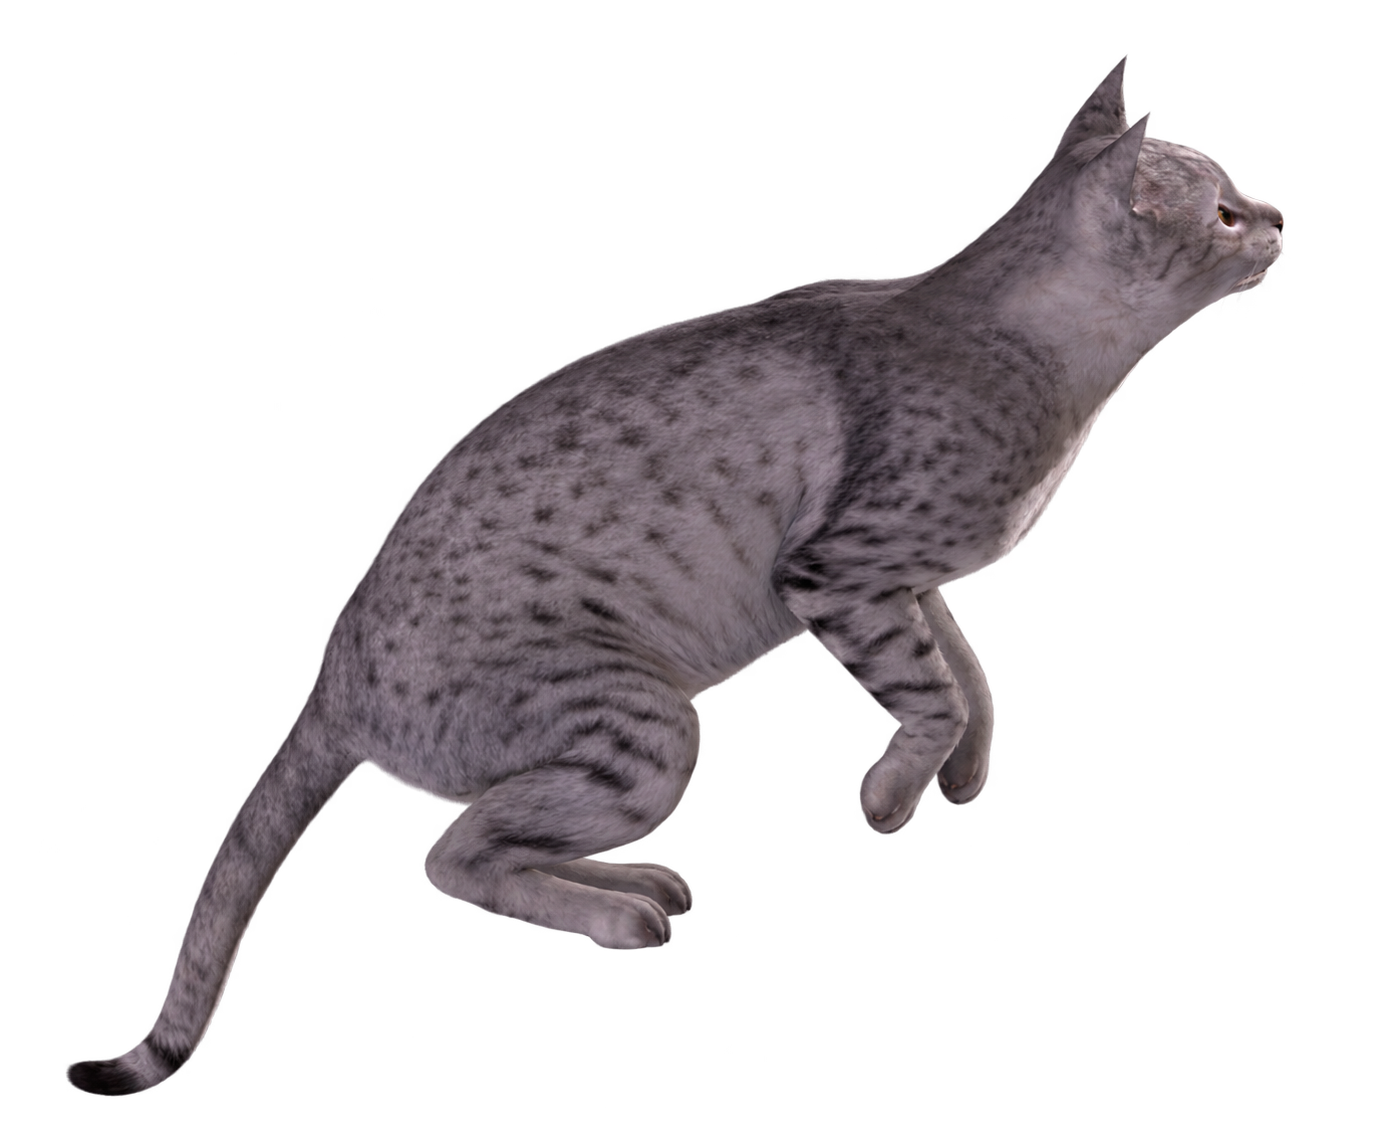
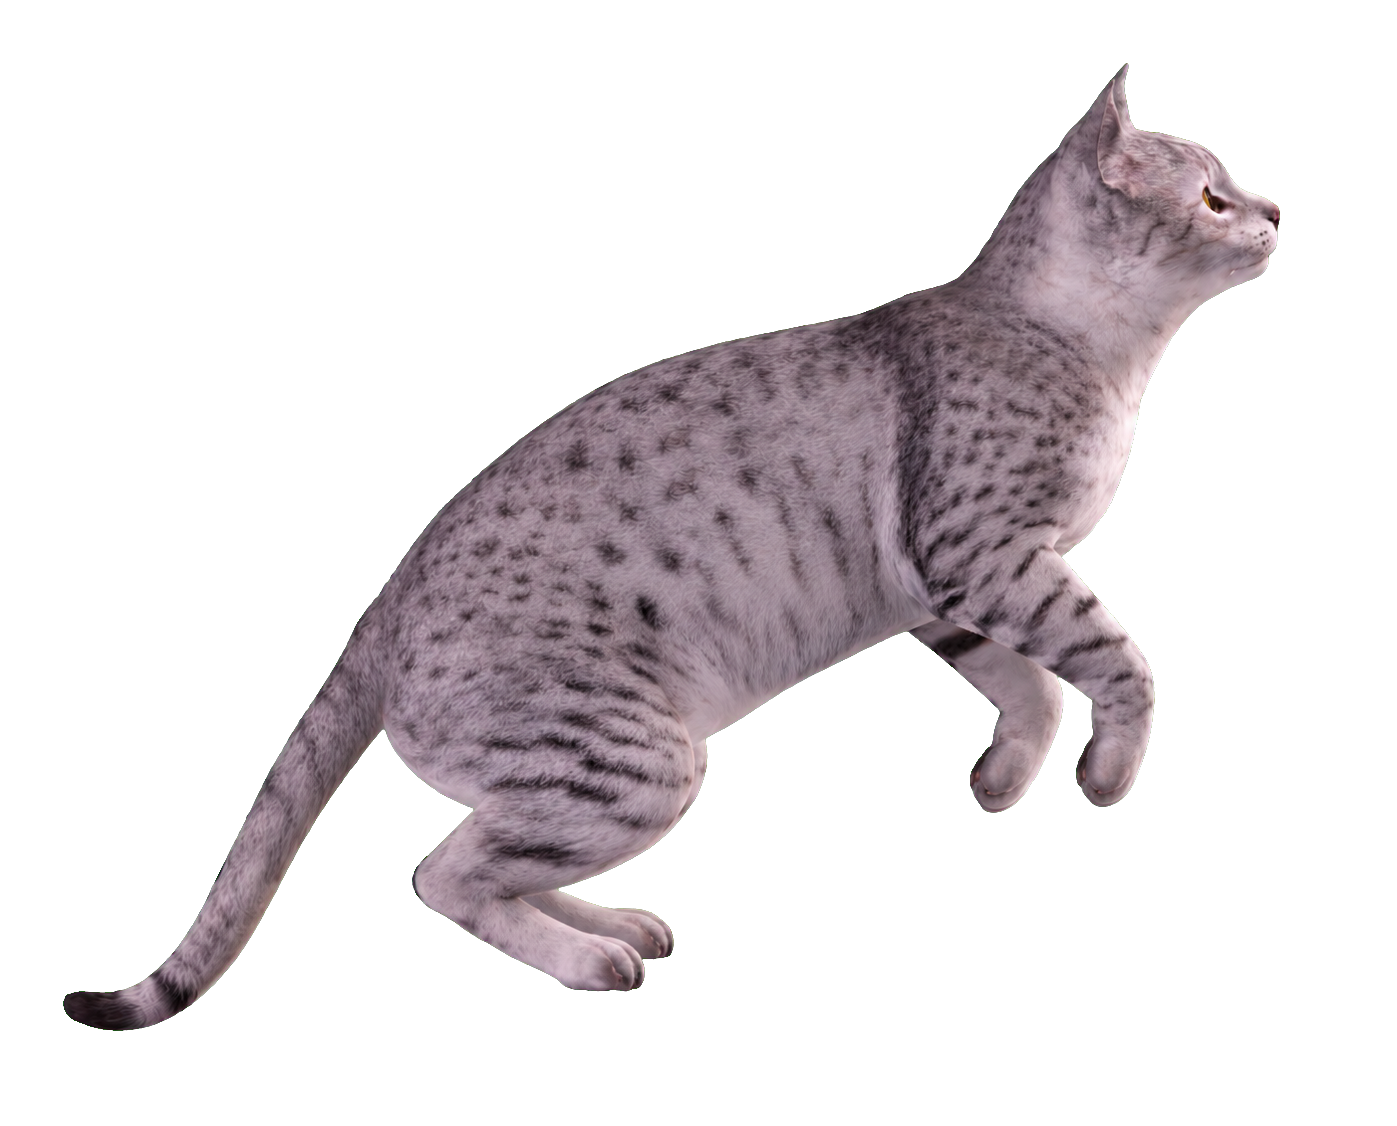
Add crouch animation assets for Mitzi and update animation controller
- Introduced new crouch animation assets (mitzi_crouch.anim, mitzi_crouch.png) along with their metadata files to enhance character animations.
- Updated the animation controller to include the new crouch state, ensuring smooth transitions between different actions.
- Modified the MitziPoseAnimationBuilder to support the new crouch animation, improving asset management and animation workflow.

Changed region(s): [[0.0308, 0.0622, 0.9234, 0.9947]]

diff --git a/Assets/_Game/Scripts/Core/RuntimeBootstrap.cs b/Assets/_Game/Scripts/Core/RuntimeBootstrap.cs
@@ -276,15 +276,26 @@ namespace PawPath.Core
             selected.gameObject.SetActive(false);
             var play = Button(content, "PlayButton", "Oyna", new Vector2(1f, 1f), new Vector2(-120f, -55f), new Color(0.93f, 0.72f, 0.76f));
             var shop = Button(content, "ShopButton", GameText.Shop, new Vector2(1f, 1f), new Vector2(-330f, -55f), new Color(0.78f, 0.84f, 0.72f));
-            StyleCompactTopButton(play, new Vector2(-92f, -42f));
-            StyleCompactTopButton(shop, new Vector2(-282f, -42f));
+            StyleCompactTopButton(play, new Vector2(-180f, -62f));
+            StyleCompactTopButton(shop, new Vector2(-540f, -62f));
             var editHome = Button(content, "EditHomeButton", "✎", new Vector2(1f, 1f),
-                new Vector2(-405f, -42f), new Color(0.78f, 0.72f, 0.64f));
+                new Vector2(-785f, -62f), new Color(0.78f, 0.72f, 0.64f));
             var flipFurniture = Button(content, "FlipFurnitureButton", "↔", new Vector2(1f, 1f),
-                new Vector2(-405f, -105f), new Color(0.78f, 0.72f, 0.64f));
-            StyleWarmGameButton(editHome, new Vector2(64f, 52f), 27);
-            StyleWarmGameButton(flipFurniture, new Vector2(64f, 52f), 26);
+                new Vector2(-785f, -178f), new Color(0.78f, 0.72f, 0.64f));
+            StyleWarmGameButton(editHome, new Vector2(128f, 104f), 42);
+            StyleWarmGameButton(flipFurniture, new Vector2(128f, 104f), 40);
             flipFurniture.gameObject.SetActive(false);
+            var quitGame = Button(content, "QuitGameButton", "Oyundan Çık", new Vector2(1f, 1f),
+                new Vector2(-960f, -62f), new Color(0.66f, 0.48f, 0.40f));
+            StyleWarmGameButton(quitGame, new Vector2(200f, 104f), 25);
+            quitGame.onClick.AddListener(() =>
+            {
+#if UNITY_EDITOR
+                UnityEditor.EditorApplication.isPlaying = false;
+#else
+                Application.Quit();
+#endif
+            });
 
             var musicMute = Button(content, "MusicMuteButton", "♫", new Vector2(0f, 1f),
                 new Vector2(52f, -44f), new Color(0.68f, 0.57f, 0.44f, 0.94f));
@@ -319,8 +330,8 @@ namespace PawPath.Core
             Stretch(modeMenu.GetComponent<RectTransform>());
             var drawingPlay = Button(modeMenu.transform, "DrawingPlayButton", "Çizerek Oyna", new Vector2(1f, 1f), new Vector2(-150f, -125f), new Color(0.93f, 0.72f, 0.76f));
             var directPlay = Button(modeMenu.transform, "DirectPlayButton", "Tuşlarla Oyna", new Vector2(1f, 1f), new Vector2(-150f, -195f), new Color(0.72f, 0.82f, 0.94f));
-            StyleCompactMenuButton(drawingPlay, new Vector2(-132f, -105f));
-            StyleCompactMenuButton(directPlay, new Vector2(-132f, -165f));
+            StyleCompactTopButton(drawingPlay, new Vector2(-180f, -180f));
+            StyleCompactTopButton(directPlay, new Vector2(-180f, -305f));
             modeMenu.SetActive(false);
 
             var themeSelectorObject = BuildThemeSelector(content);
@@ -381,7 +392,7 @@ namespace PawPath.Core
             resetProgress.gameObject.SetActive(Debug.isDebugBuild || Application.isEditor);
             var restart = Button(content, "RestartButton", "Yeniden", new Vector2(1f, 1f), new Vector2(-125f, -55f), new Color(0.93f, 0.72f, 0.76f));
             restart.GetComponent<RectTransform>().sizeDelta = new Vector2(190f, 58f);
-            var home = Button(content, "LevelHomeButton", "Eve Dön", new Vector2(0f, 1f), new Vector2(125f, -55f), new Color(0.78f, 0.84f, 0.72f));
+            var home = Button(content, "LevelHomeButton", "Eve Dön", new Vector2(0f, 1f), new Vector2(125f, -125f), new Color(0.78f, 0.84f, 0.72f));
             home.GetComponent<RectTransform>().sizeDelta = new Vector2(190f, 58f);
             StyleWarmGameButton(restart, new Vector2(190f, 58f), 20);
             StyleWarmGameButton(home, new Vector2(190f, 58f), 20);
@@ -407,9 +418,9 @@ namespace PawPath.Core
             var street = Button(panel.transform, "StreetTheme", "Sokak", new Vector2(1f, 1f), new Vector2(-150f, -125f), new Color(0.83f, 0.68f, 0.52f));
             var forest = Button(panel.transform, "ForestTheme", "Orman", new Vector2(1f, 1f), new Vector2(-150f, -195f), new Color(0.52f, 0.70f, 0.55f));
             var city = Button(panel.transform, "CityTheme", "Cadde", new Vector2(1f, 1f), new Vector2(-150f, -255f), new Color(0.62f, 0.58f, 0.54f));
-            StyleCompactMenuButton(street, new Vector2(-132f, -105f));
-            StyleCompactMenuButton(forest, new Vector2(-132f, -165f));
-            StyleCompactMenuButton(city, new Vector2(-132f, -225f));
+            StyleCompactMenuButton(street, new Vector2(-280f, -160f));
+            StyleCompactMenuButton(forest, new Vector2(-280f, -285f));
+            StyleCompactMenuButton(city, new Vector2(-280f, -410f));
             panel.AddComponent<ThemeSelectionUI>().Bind(street, forest, city);
             return panel;
         }
@@ -419,10 +430,10 @@ namespace PawPath.Core
             var controls = new GameObject("MobileControls", typeof(RectTransform));
             controls.transform.SetParent(parent, false);
             Stretch(controls.GetComponent<RectTransform>());
-            AddControlButton(controls.transform, "Left", "◀", new Vector2(0f, 0f), new Vector2(100f, 105f), MobileAction.Left);
-            AddControlButton(controls.transform, "Right", "▶", new Vector2(0f, 0f), new Vector2(245f, 105f), MobileAction.Right);
-            AddControlButton(controls.transform, "Jump", "ZIPLA", new Vector2(1f, 0f), new Vector2(-250f, 105f), MobileAction.Jump);
-            AddControlButton(controls.transform, "Crouch", "EĞİL", new Vector2(1f, 0f), new Vector2(-105f, 105f), MobileAction.Crouch);
+            AddControlButton(controls.transform, "Left", "◀", new Vector2(0f, 0f), new Vector2(125f, 120f), MobileAction.Left);
+            AddControlButton(controls.transform, "Right", "▶", new Vector2(0f, 0f), new Vector2(375f, 120f), MobileAction.Right);
+            AddControlButton(controls.transform, "Jump", "ZIPLA", new Vector2(1f, 0f), new Vector2(-375f, 120f), MobileAction.Jump);
+            AddControlButton(controls.transform, "Crouch", "EĞİL", new Vector2(1f, 0f), new Vector2(-125f, 120f), MobileAction.Crouch);
             return controls;
         }
 
@@ -430,13 +441,13 @@ namespace PawPath.Core
             Vector2 position, MobileAction action)
         {
             var button = Button(parent, name, label, anchor, position, new Color(0.18f, 0.20f, 0.25f, 0.82f));
-            button.GetComponent<RectTransform>().sizeDelta = new Vector2(125f, 92f);
-            StyleWarmGameButton(button, new Vector2(125f, 92f), 22);
+            button.GetComponent<RectTransform>().sizeDelta = new Vector2(200f, 140f);
+            StyleWarmGameButton(button, new Vector2(200f, 140f), 30);
             button.gameObject.AddComponent<MobileControlButton>().Configure(action);
             var text = button.GetComponentInChildren<Text>();
             if (text != null)
             {
-                text.fontSize = 22;
+                text.fontSize = 30;
                 text.color = Color.white;
             }
         }
@@ -447,11 +458,11 @@ namespace PawPath.Core
             panel.AddComponent<CanvasGroup>();
             var content = SafeContent(panel.transform);
 
-            var feed = Button(content, "FeedButton", $"Mama +{needs.foodPoints}", new Vector2(0.16f, 0f), new Vector2(0f, 205f), new Color(0.88f, 0.72f, 0.55f));
-            var water = Button(content, "WaterButton", $"Su +{needs.waterPoints}", new Vector2(0.16f, 0f), new Vector2(0f, 130f), new Color(0.62f, 0.80f, 0.91f));
-            var sleep = Button(content, "SleepButton", $"Uyu +{needs.sleepPoints}", new Vector2(0.16f, 0f), new Vector2(0f, 55f), new Color(0.75f, 0.69f, 0.86f));
+            var feed = Button(content, "FeedButton", $"Mama +{needs.foodPoints}", new Vector2(0.16f, 0f), new Vector2(0f, 275f), new Color(0.88f, 0.72f, 0.55f));
+            var water = Button(content, "WaterButton", $"Su +{needs.waterPoints}", new Vector2(0.16f, 0f), new Vector2(0f, 145f), new Color(0.62f, 0.80f, 0.91f));
+            var sleep = Button(content, "SleepButton", $"Uyu +{needs.sleepPoints}", new Vector2(0.16f, 0f), new Vector2(0f, 15f), new Color(0.75f, 0.69f, 0.86f));
             foreach (var button in new[] { feed, water, sleep })
-                StyleWarmGameButton(button, new Vector2(260f, 58f), 19);
+                StyleWarmGameButton(button, new Vector2(520f, 116f), 30);
 
             var daily = Label(content, "DailyPetting", "Günlük Okşama", new Vector2(0.84f, 0f), new Vector2(0f, 125f));
             daily.fontSize = 20;
@@ -484,13 +495,13 @@ namespace PawPath.Core
             var rt = toolbar.GetComponent<RectTransform>();
             Stretch(rt);
 
-            AddBrushButton(toolbar.transform, "NormalBrush", "Yol", -220f, new Color(0.17f, 0.15f, 0.14f), PathSurfaceType.Normal);
-            AddBrushButton(toolbar.transform, "BounceBrush", "Zıpla", -110f, new Color(0.20f, 0.55f, 0.95f), PathSurfaceType.Bounce);
+            AddBrushButton(toolbar.transform, "NormalBrush", "Yol", -340f, new Color(0.17f, 0.15f, 0.14f), PathSurfaceType.Normal);
+            AddBrushButton(toolbar.transform, "BounceBrush", "Zıpla", -170f, new Color(0.20f, 0.55f, 0.95f), PathSurfaceType.Bounce);
             AddBrushButton(toolbar.transform, "HazardBrush", "!", 0f, new Color(0.88f, 0.20f, 0.20f), PathSurfaceType.Hazard);
-            AddBrushButton(toolbar.transform, "IceBrush", "Buz", 110f, new Color(0.95f, 0.98f, 1f), PathSurfaceType.Ice);
-            var eraser = Button(toolbar.transform, "Eraser", "Sil", new Vector2(0.5f, 0f), new Vector2(220f, 46f), new Color(0.72f, 0.68f, 0.65f));
-            eraser.GetComponent<RectTransform>().sizeDelta = new Vector2(92f, 58f);
-            StyleWarmGameButton(eraser, new Vector2(92f, 58f), 17);
+            AddBrushButton(toolbar.transform, "IceBrush", "Buz", 170f, new Color(0.95f, 0.98f, 1f), PathSurfaceType.Ice);
+            var eraser = Button(toolbar.transform, "Eraser", "Sil", new Vector2(0.5f, 0f), new Vector2(340f, 68f), new Color(0.72f, 0.68f, 0.65f));
+            eraser.GetComponent<RectTransform>().sizeDelta = new Vector2(150f, 88f);
+            StyleWarmGameButton(eraser, new Vector2(150f, 88f), 24);
             eraser.onClick.AddListener(() =>
             {
                 if (LineDraw.Instance != null)
@@ -501,13 +512,13 @@ namespace PawPath.Core
 
         static void AddBrushButton(Transform parent, string name, string label, float x, Color color, PathSurfaceType type)
         {
-            var button = Button(parent, name, label, new Vector2(0.5f, 0f), new Vector2(x, 46f), color);
-            button.GetComponent<RectTransform>().sizeDelta = new Vector2(92f, 58f);
-            StyleWarmGameButton(button, new Vector2(92f, 58f), 17);
+            var button = Button(parent, name, label, new Vector2(0.5f, 0f), new Vector2(x, 68f), color);
+            button.GetComponent<RectTransform>().sizeDelta = new Vector2(150f, 88f);
+            StyleWarmGameButton(button, new Vector2(150f, 88f), 24);
             var text = button.GetComponentInChildren<Text>();
             if (text != null)
             {
-                text.fontSize = 17;
+                text.fontSize = 24;
                 text.color = type == PathSurfaceType.Normal ? Color.white : new Color(0.18f, 0.16f, 0.17f);
             }
             button.onClick.AddListener(() =>
@@ -756,13 +767,13 @@ namespace PawPath.Core
         {
             var rt = button.GetComponent<RectTransform>();
             rt.anchoredPosition = position;
-            StyleWarmGameButton(button, new Vector2(170f, 52f), 20);
+            StyleWarmGameButton(button, new Vector2(340f, 104f), 32);
         }
 
         static void StyleCompactMenuButton(Button button, Vector2 position)
         {
             StyleCompactTopButton(button, position);
-            button.GetComponent<RectTransform>().sizeDelta = new Vector2(250f, 52f);
+            button.GetComponent<RectTransform>().sizeDelta = new Vector2(500f, 104f);
             var image = button.GetComponent<Image>();
             image.sprite = RusticUiSpriteFactory.ParchmentPanel();
             image.type = Image.Type.Sliced;

diff --git a/Assets/_Game/Editor/MitziPoseAnimationBuilder.cs b/Assets/_Game/Editor/MitziPoseAnimationBuilder.cs
@@ -10,8 +10,9 @@ namespace PawPath.EditorTools
     {
         const string SitClipPath = "Assets/_Game/Art/Cats/mitzi_sit.anim";
         const string JumpClipPath = "Assets/_Game/Art/Cats/mitzi_jump.anim";
+        const string CrouchClipPath = "Assets/_Game/Art/Cats/mitzi_crouch.anim";
         const string ControllerPath = "Assets/_Game/Art/cat_walk_1.controller";
-        const string SessionKey = "PawPath.MitziPoseAnimationBuilder.v2";
+        const string SessionKey = "PawPath.MitziPoseAnimationBuilder.v3";
 
         static MitziPoseAnimationBuilder()
         {
@@ -33,6 +34,7 @@ namespace PawPath.EditorTools
         {
             var sitFrames = LoadFrames("mitzi_sit");
             var jumpFrames = LoadFrames("mitzi_jump");
+            var crouchSprite = LoadSingleSprite("Assets/_Game/Art/Cats/mitzi_crouch.png");
             if (sitFrames.Length != 4 || jumpFrames.Length != 4)
             {
                 Debug.LogWarning("Mitzi poz animasyonları kurulamadı: sprite sheet'ler dört kareye ayrılamadı.");
@@ -41,6 +43,9 @@ namespace PawPath.EditorTools
 
             var sitClip = CreateClip(SitClipPath, "mitzi_sit", sitFrames, 6f, false);
             var jumpClip = CreateClip(JumpClipPath, "mitzi_jump", jumpFrames, 7f, false);
+            var crouchClip = crouchSprite != null
+                ? CreateClip(CrouchClipPath, "mitzi_crouch", new[] { crouchSprite }, 1f, false)
+                : null;
             var controller = AssetDatabase.LoadAssetAtPath<AnimatorController>(ControllerPath);
             if (controller == null)
             {
@@ -59,6 +64,8 @@ namespace PawPath.EditorTools
 
             SetStateMotion(stateMachine, "Sit", sitClip);
             SetStateMotion(stateMachine, "Jump", jumpClip);
+            if (crouchClip != null)
+                SetStateMotion(stateMachine, "Crouch", crouchClip);
             EditorUtility.SetDirty(controller);
             AssetDatabase.SaveAssets();
 
@@ -96,6 +103,27 @@ namespace PawPath.EditorTools
                 frames[index] = AssetDatabase.LoadAssetAtPath<Sprite>(path);
             }
             return frames.Where(frame => frame != null).ToArray();
+        }
+
+        static Sprite LoadSingleSprite(string path)
+        {
+            var importer = AssetImporter.GetAtPath(path) as TextureImporter;
+            var texture = AssetDatabase.LoadAssetAtPath<Texture2D>(path);
+            if (importer == null || texture == null)
+                return null;
+
+            importer.textureType = TextureImporterType.Sprite;
+            importer.spriteImportMode = SpriteImportMode.Single;
+            importer.alphaIsTransparency = true;
+            importer.mipmapEnabled = false;
+            importer.spritePixelsPerUnit = texture.height / 11.5f;
+            var settings = new TextureImporterSettings();
+            importer.ReadTextureSettings(settings);
+            settings.spriteAlignment = (int)SpriteAlignment.Center;
+            settings.spritePivot = new Vector2(0.5f, 0.5f);
+            importer.SetTextureSettings(settings);
+            importer.SaveAndReimport();
+            return AssetDatabase.LoadAssetAtPath<Sprite>(path);
         }
 
         static AnimationClip CreateClip(string path, string name, Sprite[] frames, float frameRate, bool loop)

diff --git a/Assets/_Game/Scripts/Cat/CatController.cs b/Assets/_Game/Scripts/Cat/CatController.cs
@@ -50,6 +50,7 @@ namespace PawPath.Cat
 
         static readonly int WalkState = Animator.StringToHash("Walk");
         static readonly int JumpState = Animator.StringToHash("Jump");
+        static readonly int CrouchState = Animator.StringToHash("Crouch");
 
         public bool IsBusy => busy;
         public CatDefinition Definition => definition;
@@ -95,8 +96,10 @@ namespace PawPath.Cat
                 return;
 
             float scale = visualHeight / sprite.sprite.bounds.size.y;
-            visual.localScale = new Vector3(scale * facing, scale * (crouching ? 0.58f : 1f), 1f);
-            visual.localPosition = new Vector3(0f, crouching ? -visualHeight * 0.21f : 0f, 0f);
+            // Eğilme için ayrı bir poz kullanılıyor; görseli dikey sıkıştırmak
+            // kediyi ezilmiş gösterdiği için tüm pozlar orantılı ölçeklenir.
+            visual.localScale = new Vector3(scale * facing, scale, 1f);
+            visual.localPosition = new Vector3(0f, crouching ? -0.08f : 0f, 0f);
         }
 
         void Update()
@@ -208,6 +211,20 @@ namespace PawPath.Cat
             if (shouldCrouch != crouching)
             {
                 crouching = shouldCrouch;
+                if (animator != null)
+                {
+                    if (crouching && grounded && animator.HasState(0, CrouchState))
+                    {
+                        animator.Play(CrouchState, 0, 0f);
+                        animator.speed = 0f;
+                        animator.Update(0f);
+                    }
+                    else if (!jumpAnimationPlaying && animator.HasState(0, WalkState))
+                    {
+                        animator.Play(WalkState, 0, 0f);
+                        animator.Update(0f);
+                    }
+                }
                 FitVisualToHeight();
                 var circle = GetComponent<CircleCollider2D>();
                 if (circle != null)
@@ -218,9 +235,11 @@ namespace PawPath.Cat
             }
 
             if (animator != null)
-                animator.speed = !grounded && jumpAnimationPlaying
-                    ? 1f
-                    : Mathf.Abs(horizontal) > 0.01f ? walkAnimationSpeed : 0f;
+                animator.speed = crouching && grounded
+                    ? 0f
+                    : !grounded && jumpAnimationPlaying
+                        ? 1f
+                        : Mathf.Abs(horizontal) > 0.01f ? walkAnimationSpeed : 0f;
             if (visual != null)
             {
                 var scale = visual.localScale;

diff --git a/Assets/_Game/Scripts/UI/ShopScreen.cs b/Assets/_Game/Scripts/UI/ShopScreen.cs
@@ -71,10 +71,13 @@ namespace PawPath.UI
                 grid.startAxis = GridLayoutGroup.Axis.Horizontal;
                 grid.childAlignment = TextAnchor.UpperCenter;
                 grid.constraint = GridLayoutGroup.Constraint.FixedColumnCount;
-                grid.constraintCount = 3; 
+                grid.constraintCount = 4;
             }
-            grid.cellSize = new Vector2(280, 360);
-            grid.spacing = new Vector2(28, 24);
+            // Geniş ekranlarda ürünler tek sırada dört kart olarak görünür.
+            grid.constraint = GridLayoutGroup.Constraint.FixedColumnCount;
+            grid.constraintCount = 4;
+            grid.cellSize = new Vector2(250, 350);
+            grid.spacing = new Vector2(22, 24);
 
             var fitter = listRoot.GetComponent<ContentSizeFitter>();
             if (fitter == null)
